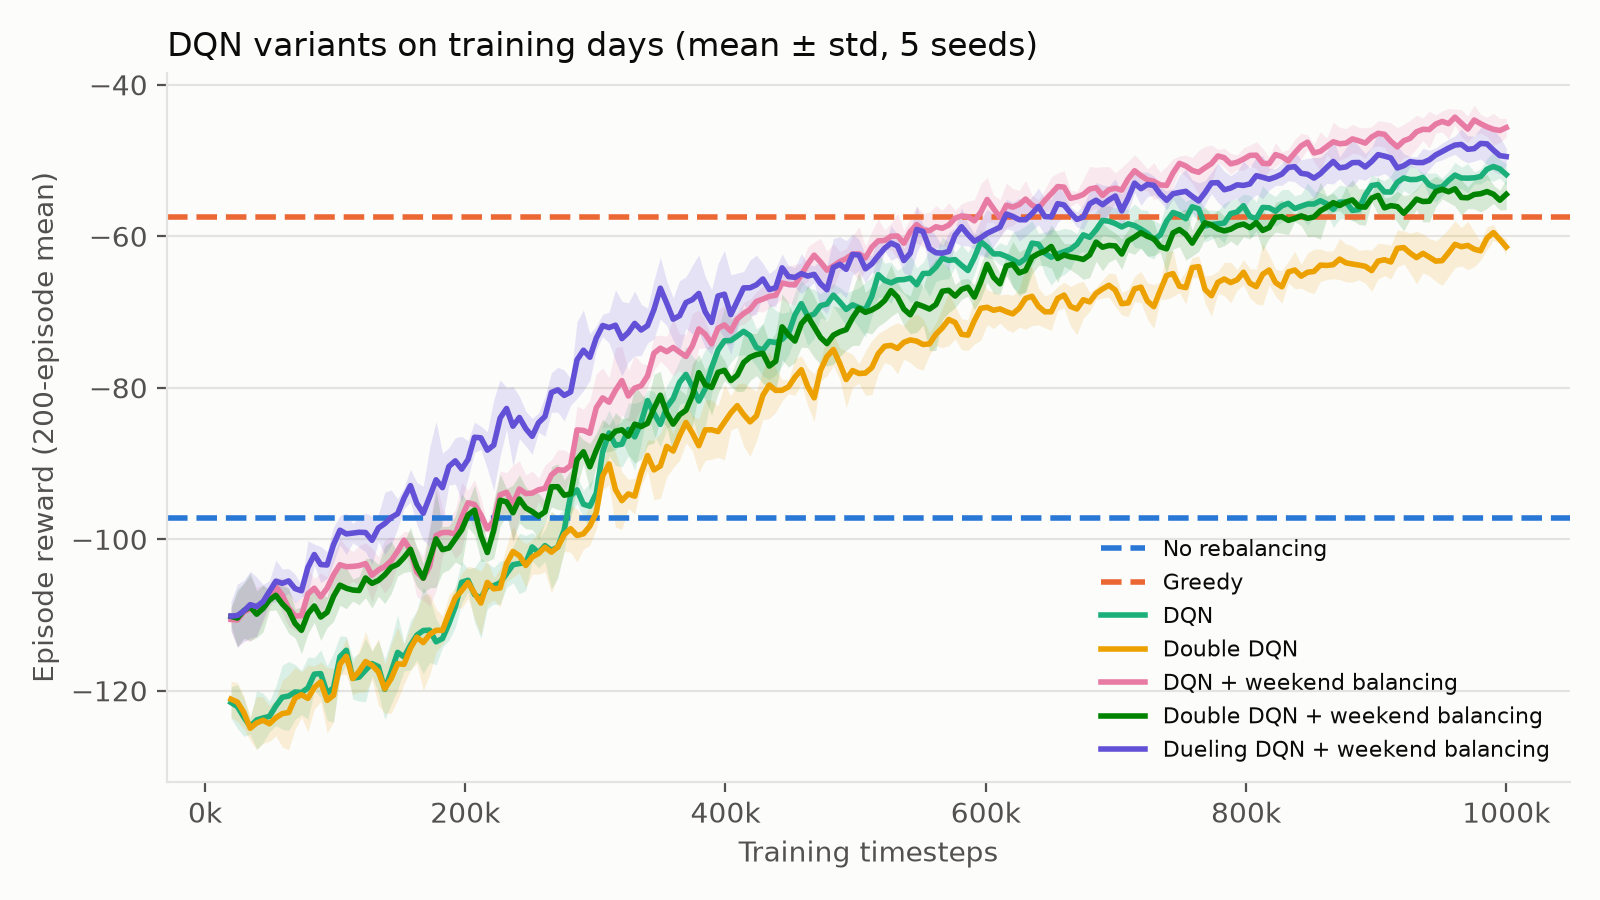
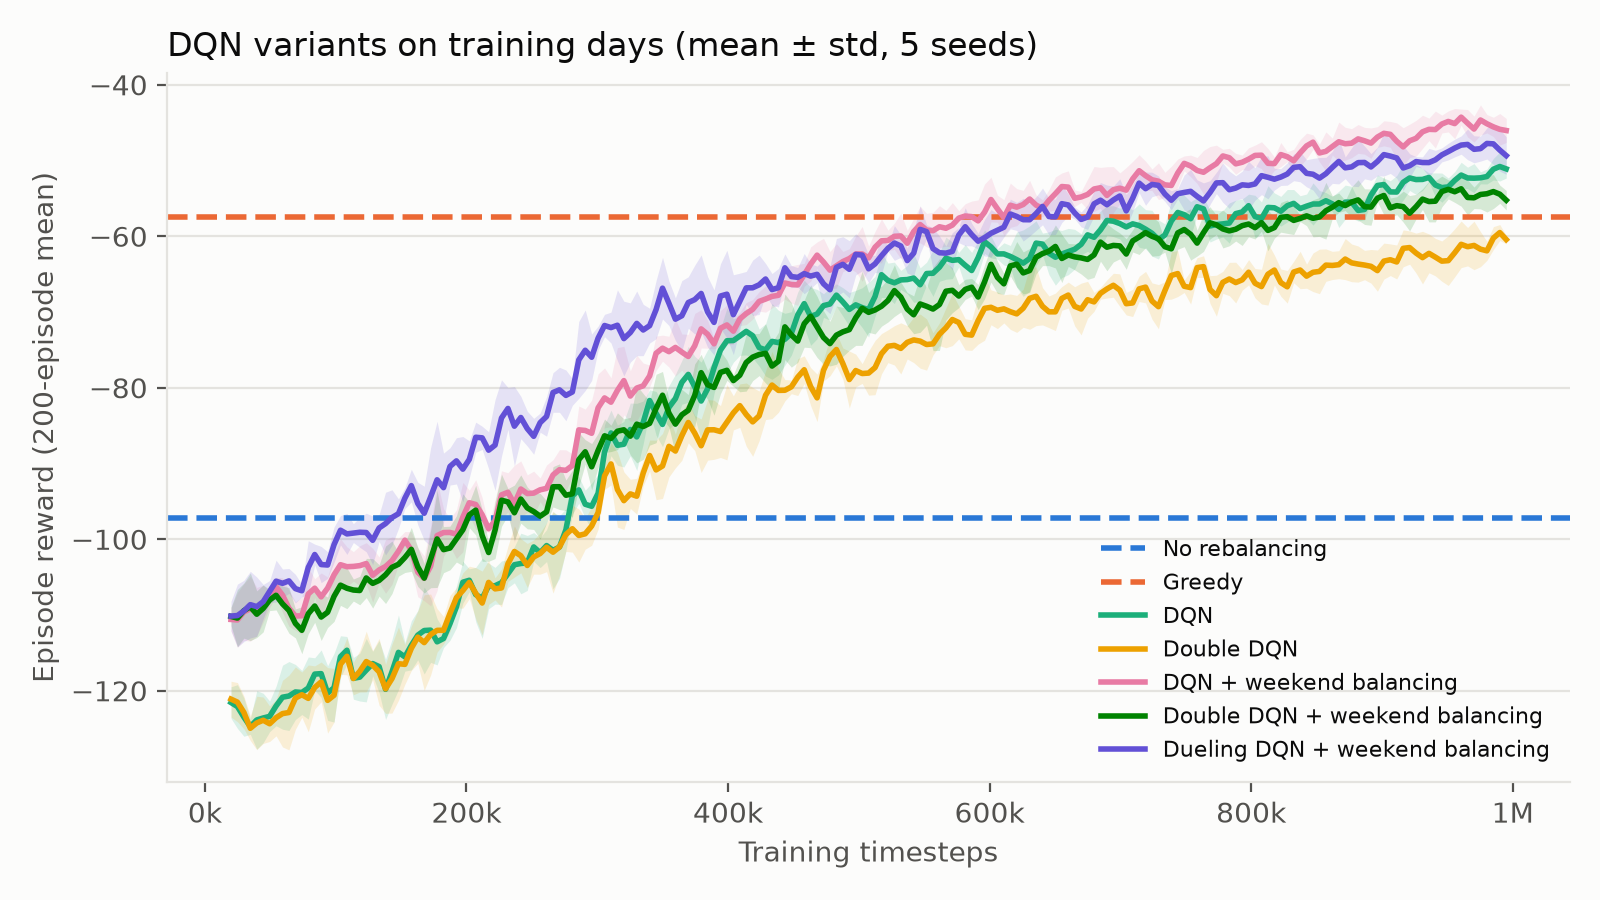
Hyperparameter sensitivity and 3M-step 50-station runs

diff --git a/plot_results.py b/plot_results.py
@@ -23,10 +23,18 @@ VARIANTS = {
     "Dueling DQN + weekend balancing": {"dueling": True, "balance_weekends": True},
 }
 DISTANCE_PENALTIES = [0, 0.1, 0.3, 1]
+SENSITIVITY = {
+    "default (lr 1e-4, ε over 30%)": {},
+    "lr 3e-5": {"learning_rate": 3e-5},
+    "lr 3e-4": {"learning_rate": 3e-4},
+    "ε over 10%": {"exploration_fraction": 0.1},
+    "ε over 50%": {"exploration_fraction": 0.5},
+}
 COLORS = {
     "No rebalancing": "#2a78d6", "Greedy": "#eb6834", "DQN": "#1baf7a", "Double DQN": "#eda100",
     "DQN + weekend balancing": "#e87ba4", "Double DQN + weekend balancing": "#008300",
     "Dueling DQN + weekend balancing": "#6250d6",
+    "DQN + weekend balancing, 1M steps": "#e87ba4", "DQN + weekend balancing, 3M steps": "#6250d6",
 }
 INK, MUTED, GRID, SURFACE = "#0b0b0b", "#52514e", "#e4e3df", "#fcfcfb"
 BLUES = LinearSegmentedColormap.from_list(
@@ -44,8 +52,9 @@ def style(ax):
     ax.set_axisbelow(True)
 
 
-def daily_reward(rows):
-    return -(rows[:, 1] + 0.1 * rows[:, 3]).mean()
+def daily_reward(rows, balanced = False):
+    r = -(rows[:, 1] + 0.1 * rows[:, 3])
+    return (r[rows[:, 0] == 1].mean() + r[rows[:, 0] == 0].mean()) / 2 if balanced else r.mean()
 
 
 def test_rows(seeds, **kwargs):
@@ -67,24 +76,30 @@ def load_runs():
     return runs
 
 
-def learning_curves(runs, baselines_train):
-    grid = np.linspace(20_000, 1_000_000, 200)
+def monitors(seeds, **kwargs):
+    kwargs = {"double": False, "balance_weekends": False, **kwargs}
+    return [pd.read_csv(RESULTS / f"{run_name(seed = s, **kwargs)}.monitor.csv", skiprows = 1) for s in seeds]
+
+
+def learning_curves(runs, baselines_train, steps = 1_000_000, title = None, filename = "dqn_learning_curve.png"):
+    grid = np.linspace(20_000, steps, 200)
     fig, ax = plt.subplots(figsize = (8, 4.5), facecolor = SURFACE)
     style(ax)
     for name, value in baselines_train.items():
         ax.axhline(value, color = COLORS[name], linewidth = 2, linestyle = "--", label = name)
     for label, run in runs.items():
-        curves = [np.interp(grid, m.l.cumsum(), m.r.rolling(200, min_periods = 50).mean()) for m in run["monitors"]]
+        g = grid[grid <= min(m.l.sum() for m in run["monitors"])]
+        curves = [np.interp(g, m.l.cumsum(), m.r.rolling(200, min_periods = 50).mean()) for m in run["monitors"]]
         mean, std = np.mean(curves, axis = 0), np.std(curves, axis = 0)
-        ax.plot(grid, mean, color = COLORS[label], linewidth = 2, label = label)
-        ax.fill_between(grid, mean - std, mean + std, color = COLORS[label], alpha = 0.15, linewidth = 0)
-    ax.xaxis.set_major_formatter(matplotlib.ticker.FuncFormatter(lambda v, _: f"{v / 1000:.0f}k"))
+        ax.plot(g, mean, color = COLORS[label], linewidth = 2, label = label)
+        ax.fill_between(g, mean - std, mean + std, color = COLORS[label], alpha = 0.15, linewidth = 0)
+    ax.xaxis.set_major_formatter(matplotlib.ticker.FuncFormatter(lambda v, _: f"{v / 1e6:g}M" if v >= 1e6 else f"{v / 1000:.0f}k"))
     ax.set_xlabel("Training timesteps", color = MUTED)
     ax.set_ylabel("Episode reward (200-episode mean)", color = MUTED)
-    ax.set_title(f"DQN variants on training days (mean ± std, {len(SEEDS)} seeds)", color = INK, loc = "left")
+    ax.set_title(title or f"DQN variants on training days (mean ± std, {len(SEEDS)} seeds)", color = INK, loc = "left")
     ax.legend(frameon = False, labelcolor = INK, fontsize = 8, loc = "lower right")
     fig.tight_layout()
-    fig.savefig(FIGURES / "dqn_learning_curve.png", dpi = 200)
+    fig.savefig(FIGURES / filename, dpi = 200)
 
 
 def lost_trips_bars(table):
@@ -180,11 +195,21 @@ def main():
 
     sweep = distance_tradeoff(table)
     big = {n: summary([evaluate(p, demand_path = demand_path(50))]) for n, p in baselines.items()}
-    big["DQN + weekend balancing"] = summary(test_rows(SWEEP_SEEDS, balance_weekends = True, stations = 50))
+    for steps in [1_000_000, 3_000_000]:
+        big[f"DQN + weekend balancing, {steps // 1_000_000}M steps"] = summary(
+            test_rows(SWEEP_SEEDS, balance_weekends = True, stations = 50, timesteps = steps))
+    learning_curves(
+        {f"DQN + weekend balancing, {t // 1_000_000}M steps": {"monitors": monitors(SWEEP_SEEDS, balance_weekends = True, stations = 50, timesteps = t)}
+         for t in [1_000_000, 3_000_000]},
+        {n: daily_reward(evaluate(p, split = "train", demand_path = demand_path(50)), balanced = True) for n, p in baselines.items()},
+        steps = 3_000_000, title = f"50 stations, weekend-balanced training days (mean ± std, {len(SWEEP_SEEDS)} seeds)",
+        filename = "dqn_50_stations.png")
+    sensitivity = {n: summary(test_rows(SWEEP_SEEDS, balance_weekends = True, **kw)) for n, kw in SENSITIVITY.items()}
 
     fmt = lambda s: f"{s[0]:.1f} ± {s[1]:.1f}" if s[1] else f"{s[0]:.1f}"
     for title, t in [("20 stations", table),
                      ("DQN + weekend balancing, distance penalty", {f"penalty {dp:g}": s for dp, s in zip(DISTANCE_PENALTIES, sweep)}),
+                     ("DQN + weekend balancing, hyperparameter sensitivity", sensitivity),
                      ("50 stations", big)]:
         print(f"\n{title}\n| Policy | Lost/day | Lost % | Weekday lost/day | Weekend lost/day | Van km/day |")
         print("|---|---|---|---|---|---|")

diff --git a/README.md b/README.md
@@ -31,10 +31,12 @@ python train_dqn.py --seed 0 --balance-weekends            # sample weekend days
 python train_dqn.py --seed 0 --dueling                     # Dueling DQN
 python train_dqn.py --seed 0 --distance-penalty 0.3        # reward = -lost - 0.3 * km (default 0.1)
 python train_dqn.py --seed 0 --stations 50                 # needs data/build_demand.py --n-stations 50
+python train_dqn.py --seed 0 --lr 3e-4                     # learning rate (default 1e-4)
+python train_dqn.py --seed 0 --exploration-fraction 0.1    # share of training over which epsilon decays (default 0.3)
 python plot_results.py                                     # needs every run below; writes figures/ and prints tables
 ```
 
-All runs in parallel (45 runs, about 45 min on 18 cores):
+All runs in parallel (60 runs, about 1.5 hours on 18 cores):
 
 ```
 python data/build_demand.py --n-stations 50
@@ -42,7 +44,8 @@ for seed in 0 1 2 3 4; do
   for flags in "" "--double" "--balance-weekends" "--double --balance-weekends" "--dueling --balance-weekends"; do
     OMP_NUM_THREADS=1 python train_dqn.py --seed $seed $flags & done; done
 for seed in 0 1 2; do
-  for flags in "--distance-penalty 0" "--distance-penalty 0.3" "--distance-penalty 1" "--stations 50"; do
+  for flags in "--distance-penalty 0" "--distance-penalty 0.3" "--distance-penalty 1" "--stations 50" \
+      "--lr 3e-5" "--lr 3e-4" "--exploration-fraction 0.1" "--exploration-fraction 0.5" "--stations 50 --timesteps 3000000"; do
     OMP_NUM_THREADS=1 python train_dqn.py --seed $seed --balance-weekends $flags & done; done; wait
 ```
 
